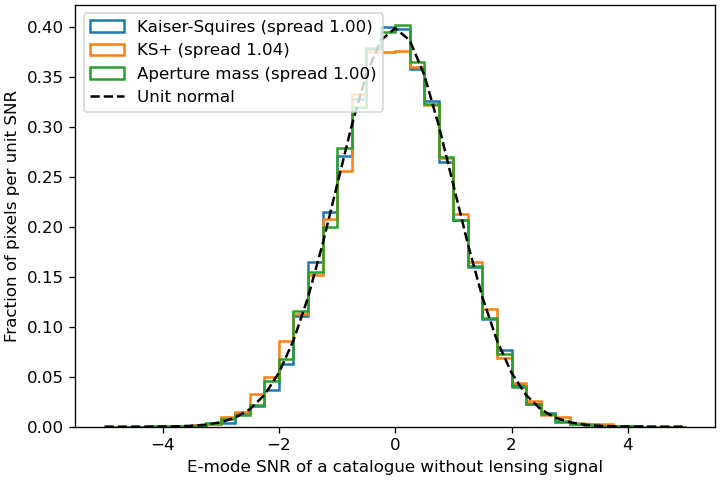
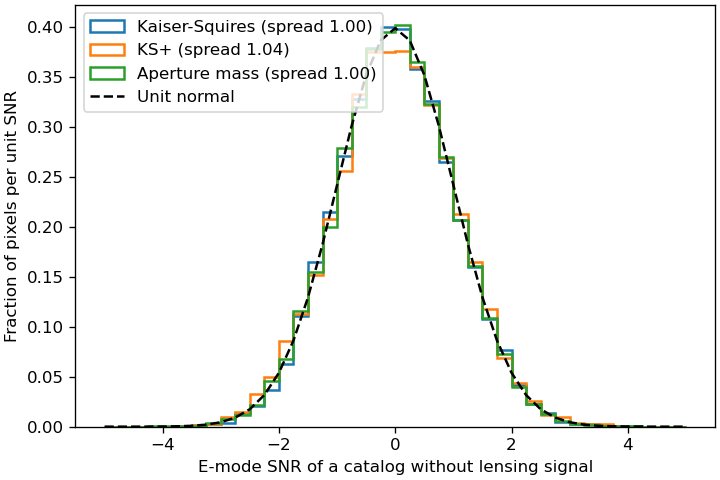
Correct the README and use American spelling throughout
The README described the RA/Dec handling as spherical geometry, listed
only Kaiser-Squires as the package's method, promised more filters and
data formats than exist, and called aperture mass the mass within an
aperture. It now describes the tangent-plane projection, the three
methods, Gaussian smoothing, FITS and astropy Table input, aperture
mass as a filtered measure, orientation shuffles as the default with
the assumption behind spatial shuffles, and the current figure.

Text added in this revision used British spelling while the rest of
the code, documentation and paper is American; catalogue, centre and
similar words now use the American spelling, including one error
message and one test name. The SNR calibration figure is redrawn for
its axis label; its numbers are unchanged.

Changed region(s): [[0.2444, 0.9375, 0.825, 1.0]]

diff --git a/tests/test_physics.py b/tests/test_physics.py
@@ -2,7 +2,7 @@
 
 Each test compares SMPy with an answer known independently of it: exact
 algebra, a change to the input with a known effect on the maps, the noiseless
-NFW cluster of the truth catalogue, or a lens whose shear is built on the
+NFW cluster of the truth catalog, or a lens whose shear is built on the
 sphere by astropy.
 """
 
@@ -30,9 +30,9 @@ COORDINATES = {
 
 @pytest.fixture
 def truth():
-    """The truth catalogue with its convergence and a column of zeros.
+    """The truth catalog with its convergence and a column of zeros.
 
-    The catalogue holds reduced shear g and magnification mu, so the
+    The catalog holds reduced shear g and magnification mu, so the
     convergence follows from mu = 1 / ((1 - kappa)^2 (1 - |g|^2)).
     """
     table = Table.read(TRUTH, hdu=1)
@@ -43,7 +43,7 @@ def truth():
 
 def wide_field_lens():
     """A 12-degree field at Dec -60 with pure tangential shear around a lens
-    4.7 degrees from its centre.
+    4.7 degrees from its center.
 
     Each galaxy's shear is tangential to the great circle towards the lens,
     in the galaxy's own west-north frame, so no map projection is involved.
@@ -178,7 +178,7 @@ def test_constant_shear_has_no_aperture_mass():
     np.testing.assert_allclose(result.maps["E"][4:-4, 4:-4], 0, rtol=0, atol=1e-14)
 
 def test_aperture_ends_at_its_radius():
-    """A shear just outside the aperture radius adds nothing at the centre of
+    """A shear just outside the aperture radius adds nothing at the center of
     the aperture, and one just inside does."""
     y, x = np.mgrid[:25, :25]
     g2 = np.where((x == 16) & (y == 16), 0.1, 0.0)
@@ -213,7 +213,7 @@ def test_ks_plus_fills_a_hole_in_a_sparse_field():
     assert np.abs(maps[:, hole] - complete[:, hole]).max() < 1e-3 * np.abs(complete).max()
 
 def test_ks_plus_beats_kaiser_squires_in_holes(truth):
-    """Inside holes in the truth catalogue, KS+ recovers the true convergence
+    """Inside holes in the truth catalog, KS+ recovers the true convergence
     better than Kaiser-Squires.
 
     Galaxies in the holes get zero weight, so the map grid is unchanged.
@@ -237,10 +237,10 @@ def test_ks_plus_beats_kaiser_squires_in_holes(truth):
     assert errors["ks_plus"] < 0.8 * errors["kaiser_squires"]
 
 def test_lens_far_from_field_centre_makes_no_b_mode():
-    """Tangential shear around a lens far from the centre of a wide field
+    """Tangential shear around a lens far from the center of a wide field
     maps to E with almost no B.
 
-    Away from the field centre the map's y axis is no longer north, so this
+    Away from the field center the map's y axis is no longer north, so this
     holds only if each galaxy's shear is turned into the map frame.
     """
     result = smpy.map_mass(wide_field_lens(), pixel_scale=6.0)
@@ -268,7 +268,7 @@ def test_ks_plus_snr_is_kaiser_squires_snr_where_their_maps_agree(truth):
 
     Without empty pixels, field extension or reduced-shear correction, KS+
     inpaints nothing and returns the Kaiser-Squires map, also for every
-    shuffled catalogue, as shuffles keep the galaxy positions.
+    shuffled catalog, as shuffles keep the galaxy positions.
     """
     settings = dict(**SHEAR, **COORDINATES["radec"], smoothing=3.0, create_snr=True, snr={"num_shuffles": 3})
     ks = smpy.map_mass(truth, "kaiser_squires", **settings)

diff --git a/smpy/coordinates/radec.py b/smpy/coordinates/radec.py
@@ -1,7 +1,7 @@
 """RA/Dec celestial coordinate system implementation.
 
 Catalogs in RA/Dec are projected onto the plane tangent to the sky at the
-field centre (the gnomonic, or TAN, projection) and gridded there. The map x
+field center (the gnomonic, or TAN, projection) and gridded there. The map x
 axis points west and y north, so east is to the left as the sky is seen.
 """
 
@@ -10,7 +10,7 @@ import numpy as np
 from .base import CoordinateSystem
 
 def project(ra, dec, ra_center, dec_center):
-    """Project sky positions onto the plane tangent at the field centre.
+    """Project sky positions onto the plane tangent at the field center.
 
     Parameters
     ----------
@@ -35,7 +35,7 @@ def project(ra, dec, ra_center, dec_center):
     ra0, dec0 = np.deg2rad(ra_center), np.deg2rad(dec_center)
     cos_distance = np.sin(dec0) * np.sin(dec) + np.cos(dec0) * np.cos(dec) * np.cos(ra - ra0)
     if np.any(cos_distance <= 0):
-        raise ValueError("Positions 90 degrees or more from the field centre cannot be projected onto its "
+        raise ValueError("Positions 90 degrees or more from the field center cannot be projected onto its "
                          "tangent plane")
     x = -np.cos(dec) * np.sin(ra - ra0) / cos_distance
     y = (np.cos(dec0) * np.sin(dec) - np.sin(dec0) * np.cos(dec) * np.cos(ra - ra0)) / cos_distance
@@ -43,7 +43,7 @@ def project(ra, dec, ra_center, dec_center):
 
 def unproject(x, y, ra_center, dec_center):
     """Return the sky positions of points on the plane tangent at the field
-    centre; the inverse of `project`.
+    center; the inverse of `project`.
 
     Parameters
     ----------
@@ -66,16 +66,16 @@ def unproject(x, y, ra_center, dec_center):
     return np.rad2deg(ra) % 360, np.rad2deg(dec)
 
 def _sky_coordinates(data_df):
-    """Return RA without the jump at 0/360, Dec, and the field centre.
+    """Return RA without the jump at 0/360, Dec, and the field center.
 
-    The field centre is the middle of the RA and Dec ranges.
+    The field center is the middle of the RA and Dec ranges.
     """
     ra, dec = data_df['coord1'].to_numpy(dtype=float), data_df['coord2'].to_numpy(dtype=float)
     ra = ra[0] + (ra - ra[0] + 180) % 360 - 180
     return ra, dec, (ra.min() + ra.max()) / 2, (dec.min() + dec.max()) / 2
 
 class RADecSystem(CoordinateSystem):
-    """RA/Dec coordinates, gridded on the plane tangent at the field centre.
+    """RA/Dec coordinates, gridded on the plane tangent at the field center.
 
     The catalog's g1 and g2 are taken in each galaxy's local frame, with x
     towards the west and y towards the north. They are turned into the map
@@ -98,7 +98,7 @@ class RADecSystem(CoordinateSystem):
         scaled_boundaries : `dict`
             Map edges on the tangent plane, in degrees, and ``pixel_size``.
         true_boundaries : `dict`
-            RA and Dec ranges of the catalog and the field centre
+            RA and Dec ranges of the catalog and the field center
             (``coord1_center``, ``coord2_center``), in degrees. RA may run
             past 360 or below 0 for fields that cross RA = 0.
         """

diff --git a/validation/accuracy.py b/validation/accuracy.py
@@ -23,9 +23,9 @@ NAMES = {"kaiser_squires": "Kaiser-Squires", "ks_plus": "KS+", "aperture_mass": 
 TRUTH_SETTINGS = dict(g1_col="nfw_g1", g2_col="nfw_g2", pixel_scale=0.4)
 
 def truth_catalog():
-    """Return the truth catalogue with its convergence and a column of zeros.
+    """Return the truth catalog with its convergence and a column of zeros.
 
-    The catalogue holds reduced shear g and magnification mu, so the
+    The catalog holds reduced shear g and magnification mu, so the
     convergence follows from mu = 1 / ((1 - kappa)^2 (1 - |g|^2)).
     """
     table = Table.read(TRUTH, hdu=1)
@@ -48,7 +48,7 @@ def show(ax, image, title, **style):
     return im
 
 def truth_recovery(table):
-    """Compare each method's E map of the noiseless truth catalogue with the
+    """Compare each method's E map of the noiseless truth catalog with the
     true convergence, smoothed like the maps.
 
     Every map is shown and compared after removing its mean, which shear does
@@ -79,7 +79,7 @@ def truth_recovery(table):
     plt.close(fig)
 
 def holes(table):
-    """Compare Kaiser-Squires and KS+ inside holes cut in the truth catalogue.
+    """Compare Kaiser-Squires and KS+ inside holes cut in the truth catalog.
 
     Galaxies in the holes get zero weight, so the map grid is unchanged.
     Each map is compared after removing its mean over the observed pixels,
@@ -109,12 +109,12 @@ def holes(table):
     plt.close(fig)
 
 def snr_calibration(catalogs=10):
-    """Show that the SNR of catalogues without lensing signal has unit spread.
+    """Show that the SNR of catalogs without lensing signal has unit spread.
 
-    Turning every shear of the example catalogue by a random angle removes
+    Turning every shear of the example catalog by a random angle removes
     its signal and keeps its noise. The spread of one map varies by about 10%
-    between such catalogues, as neighbouring pixels are correlated, so the
-    SNR of several catalogues is pooled.
+    between such catalogs, as neighboring pixels are correlated, so the
+    SNR of several catalogs is pooled.
     """
     table = Table.read(CATALOG, hdu=1)
     signal = table["g1_Rinv"] + 1j * table["g2_Rinv"]
@@ -133,7 +133,7 @@ def snr_calibration(catalogs=10):
         print(f"{NAMES[method]}: pooled SNR spread {np.std(snr):.3f}, mean {np.mean(snr):+.3f}; "
               f"spread of single maps {spreads.mean():.3f} +- {spreads.std():.3f}")
     ax.plot(bins, norm.pdf(bins), color="black", linestyle="--", label="Unit normal")
-    ax.set_xlabel("E-mode SNR of a catalogue without lensing signal")
+    ax.set_xlabel("E-mode SNR of a catalog without lensing signal")
     ax.set_ylabel("Fraction of pixels per unit SNR")
     ax.legend(loc="upper left")
     fig.savefig(OUTPUT / "snr_calibration.png", dpi=120)

diff --git a/tests/test_plotting_xray_contours.py b/tests/test_plotting_xray_contours.py
@@ -1,4 +1,4 @@
-"""Behaviour tests for DS9 x-ray contour overlays on SMPy plots."""
+"""Behavior tests for DS9 x-ray contour overlays on SMPy plots."""
 
 from pathlib import Path
 
@@ -32,7 +32,7 @@ def test_contours_follow_their_switches(result, tmp_path, on_convergence, on_snr
 
 @pytest.mark.parametrize("axis_reference", ["catalog", "map"])
 def test_image_contours_land_on_their_pixels(result, tmp_path, axis_reference):
-    """A contour point at DS9 image pixel (i, j) is drawn at the centre of map
+    """A contour point at DS9 image pixel (i, j) is drawn at the center of map
     pixel (i, j)."""
     ctr_file = tmp_path / "xray.ctr"
     ctr_file.write_text("image\n1 1\n3 2\n")
@@ -47,7 +47,7 @@ def test_image_contours_land_on_their_pixels(result, tmp_path, axis_reference):
     plt.close(fig)
 
 def test_sky_contours_land_where_the_wcs_puts_them(tmp_path):
-    """A contour point given in RA/Dec is drawn at the centre of the map pixel
+    """A contour point given in RA/Dec is drawn at the center of the map pixel
     where the WCS puts it."""
     result = smpy.map_mass(CATALOG, pixel_scale=0.4, **COLUMNS)
     pixels = np.array([[10, 5], [40, 30]])

diff --git a/validation/performance.py b/validation/performance.py
@@ -23,7 +23,7 @@ GALAXIES_PER_PIXEL = 10
 SETTINGS = dict(coord_system="pixel", downsample_factor=1, coord1_col="x", coord2_col="y")
 
 def catalog(side):
-    """Return a catalogue of pure shape noise filling a side x side map."""
+    """Return a catalog of pure shape noise filling a side x side map."""
     rng = np.random.default_rng(0)
     size = side * side * GALAXIES_PER_PIXEL
     return Table({"x": rng.uniform(0, side, size), "y": rng.uniform(0, side, size),
@@ -49,7 +49,7 @@ if __name__ == "__main__":
         print(f"{side}x{side}, {len(table):,} galaxies: "
               + ", ".join(f"{NAMES[method]} {times[method][-1]:.3g} s" for method in NAMES))
 
-    # An SNR map costs one map and one gridding of the catalogue per shuffle
+    # An SNR map costs one map and one gridding of the catalog per shuffle
     side, shuffles = 256, 20
     table = catalog(side)
     for method, repeats in (("kaiser_squires", 3), ("aperture_mass", 3), ("ks_plus", 1)):

diff --git a/tests/test_reference.py b/tests/test_reference.py
@@ -1,7 +1,7 @@
 """Regression test comparing SMPy outputs with stored reference values.
 
 The reference file holds maps, SNR maps, counts and FITS output for the
-example catalogue. Regenerate it with ``python tests/test_reference.py`` only
+example catalog. Regenerate it with ``python tests/test_reference.py`` only
 when a commit changes results on purpose, and say why in that commit.
 """
 
@@ -31,7 +31,7 @@ RTOL = 1e-9
 ATOL = 1e-12
 
 def run_case(output_dir, method, coordinates, snr=None, **settings):
-    """Run SMPy on the example catalogue and return its result."""
+    """Run SMPy on the example catalog and return its result."""
     config = Config.from_defaults(method, input_path=str(CATALOG), g1_col="g1_Rinv", g2_col="g2_Rinv",
                                   weight_col="weight", output_directory=str(output_dir), save_plots=False,
                                   mode=["E", "B"], snr=snr, **coordinates, **settings)

diff --git a/smpy/mapping_methods/aperture_mass/aperture_mass.py b/smpy/mapping_methods/aperture_mass/aperture_mass.py
@@ -42,7 +42,7 @@ class ApertureMassMapper(MassMapper):
     where φ is the polar angle and Q(r) is the chosen filter function.
     This is the aperture-mass integral of Schneider (1996) over the binned
     shear, with map pixels as the unit of area. Q is zero beyond
-    ``truncation * filter_scale`` and at the centre pixel, which has no
+    ``truncation * filter_scale`` and at the center pixel, which has no
     tangential direction.
     """
 
@@ -91,7 +91,7 @@ class ApertureMassMapper(MassMapper):
         else:
             q_vals_k = schirmer_filter(scaled_radii_k, rs)
 
-        # Cut at the radius; the centre has no tangential direction
+        # Cut at the radius; the center has no tangential direction
         q_vals_k[(R_k > radius) | (R_k == 0)] = 0
 
         # Create the kernels

diff --git a/tests/test_api.py b/tests/test_api.py
@@ -1,4 +1,4 @@
-"""Behaviour tests for the Python API."""
+"""Behavior tests for the Python API."""
 
 import random
 from pathlib import Path
@@ -123,7 +123,7 @@ def pixel_unit_on_ra(table):
 @pytest.mark.parametrize("spoil, error", [
     (nan_shear, "Column 'g1_Rinv' has 1 NaN, infinite or masked values"),
     (masked_shear, "Column 'g2_Rinv' has 1 NaN, infinite or masked values"),
-    (galaxy_at_antipode, "90 degrees or more from the field centre"),
+    (galaxy_at_antipode, "90 degrees or more from the field center"),
     (pixel_unit_on_ra, "Column 'ra' has unit 'pix', which is not convertible to deg"),
 ], ids=["NaN shear", "masked shear", "galaxy at the antipode", "RA in pixels"])
 def test_unusable_catalogs_raise(table, spoil, error):

diff --git a/smpy/coordinates/base.py b/smpy/coordinates/base.py
@@ -12,7 +12,7 @@ import numpy as np
 
 @dataclass
 class ShearGrid:
-    """Shear catalogue binned onto a regular map grid.
+    """Shear catalog binned onto a regular map grid.
 
     All arrays have shape ``(ny, nx)``: rows follow the map's y axis (north
     for RA/Dec) and columns its x axis (west for RA/Dec).
@@ -113,7 +113,7 @@ class CoordinateSystem(ABC):
 
     @staticmethod
     def _grid_edges(data_df, pixel_size):
-        """Return the edges of a map of whole pixels centred on a catalog.
+        """Return the edges of a map of whole pixels centered on a catalog.
 
         Parameters
         ----------

diff --git a/smpy/result.py b/smpy/result.py
@@ -161,7 +161,7 @@ class MassMap:
         """Return FITS WCS header cards for the map grid."""
         edges = self.scaled_boundaries
         size = edges["pixel_size"]
-        # FITS pixel numbers start at 1 and fall on pixel centres
+        # FITS pixel numbers start at 1 and fall on pixel centers
         crpix1, crpix2 = 0.5 - edges["coord1_min"] / size, 0.5 - edges["coord2_min"] / size
         if self.settings["general"]["coord_system"] == "radec":
             sky = self.true_boundaries

diff --git a/paper/make_figure.py b/paper/make_figure.py
@@ -1,4 +1,4 @@
-"""Make the paper's figure: maps of the example catalogue by each method.
+"""Make the paper's figure: maps of the example catalog by each method.
 
 Run from anywhere with ``python paper/make_figure.py``; it writes
 ``paper/mass_maps.png`` at the width of a JOSS page.

diff --git a/smpy/utils.py b/smpy/utils.py
@@ -1,6 +1,6 @@
 """Utility functions for SMPy mass mapping operations.
 
-This module provides catalogue loading, peak detection and tangential shear
+This module provides catalog loading, peak detection and tangential shear
 utilities used throughout the SMPy package.
 """
 
